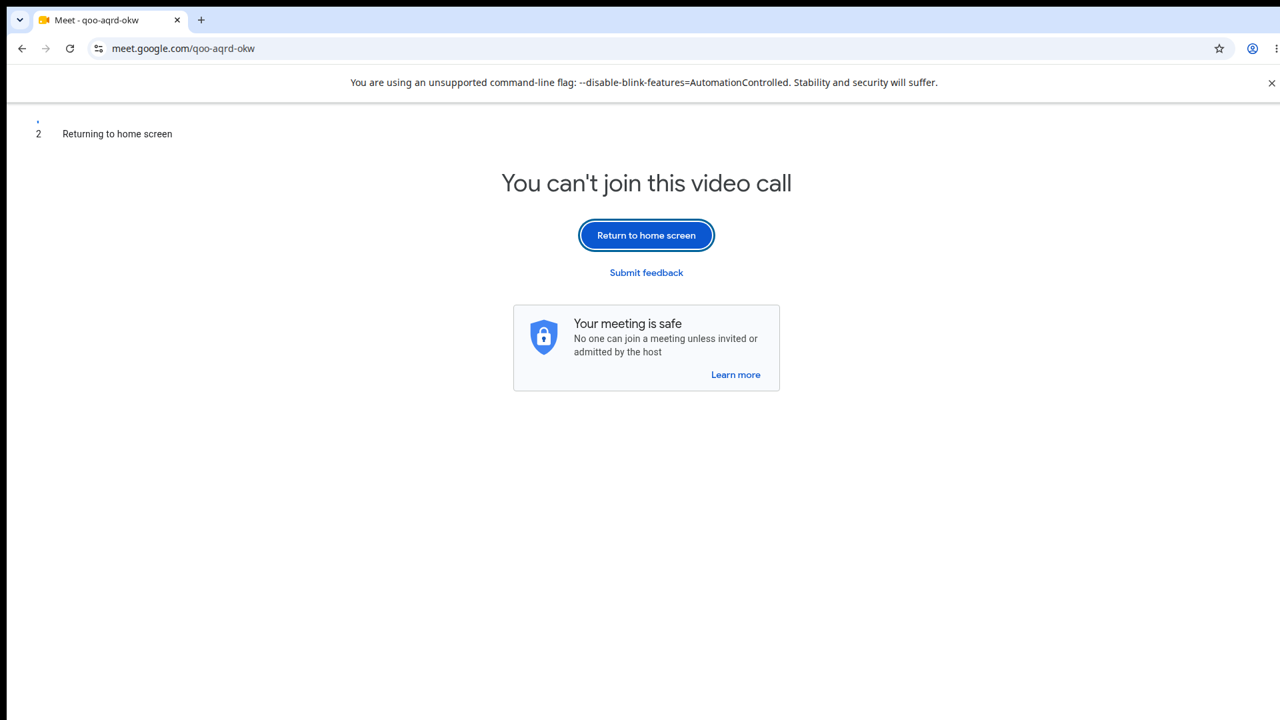
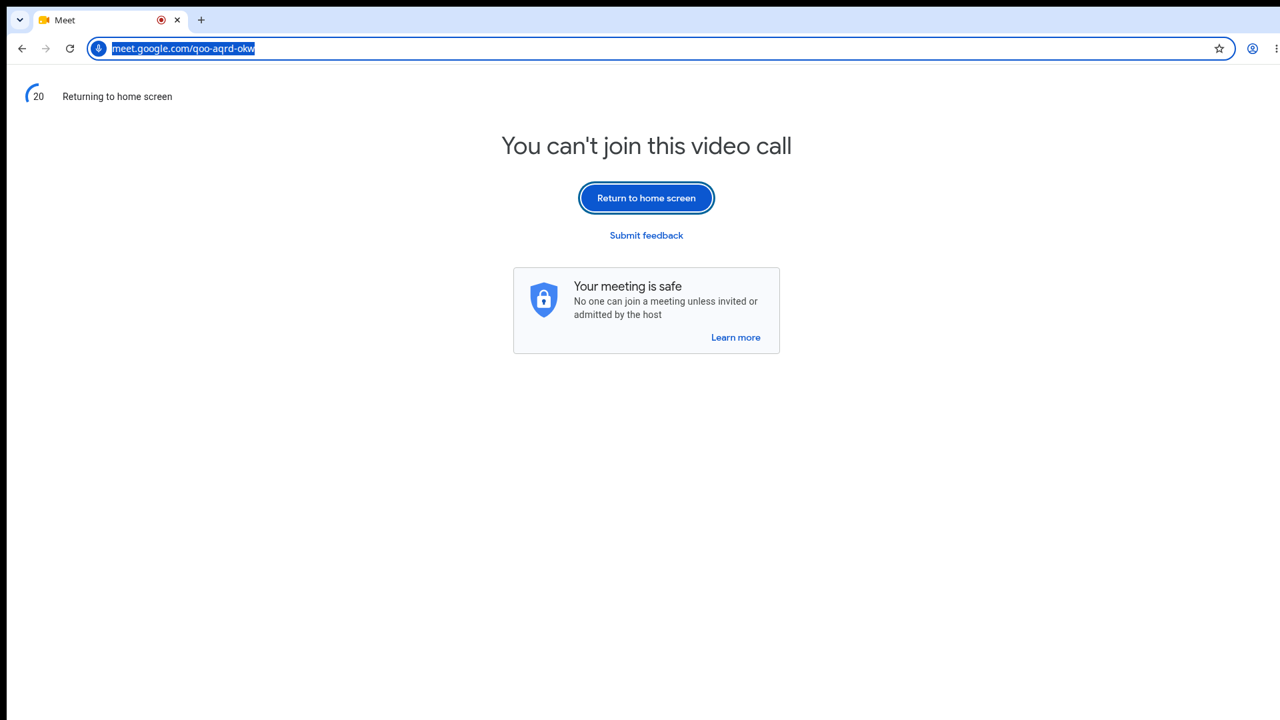
Fuzzy wake-name matching for STT mis-hearings; neural TTS via OpenRouter audio streaming

diff --git a/agent/vw_agent/speak.py b/agent/vw_agent/speak.py
@@ -1,21 +1,101 @@
-"""Text-to-speech output through the virtual mic bus (vw_tts -> vw_mic)."""
+"""Text-to-speech output through the virtual mic bus (vw_tts -> vw_mic).
+
+Engines, in order of preference:
+  openrouter : neural voice via OpenRouter (openai/gpt-audio-mini, streaming
+               pcm16 -> WAV -> paplay). High quality, uses OPENROUTER_API_KEY.
+  espeak-ng  : offline fallback.
+
+Config: VW_TTS_ENGINE=auto|openrouter|espeak, VW_TTS_MODEL, VW_TTS_VOICE.
+"""
+import base64
+import json
 import os
 import subprocess
 import tempfile
+import urllib.request
+import wave
 
 from .config import CONFIG
 
 
+def _tts_wav_openrouter(text, wav_path):
+    """Synthesize via OpenRouter streaming audio; write a WAV file."""
+    key = os.environ.get("OPENROUTER_API_KEY")
+    if not key:
+        raise RuntimeError("OPENROUTER_API_KEY not set")
+    body = json.dumps({
+        "model": CONFIG["tts_model"],
+        "modalities": ["text", "audio"],
+        "audio": {"voice": CONFIG["tts_voice"], "format": "pcm16"},
+        "stream": True,
+        "messages": [
+            {"role": "system", "content":
+                "You are Alex, a virtual worker. Read the user's text out "
+                "loud, verbatim, in a natural friendly spoken style. Do not "
+                "add anything."},
+            {"role": "user", "content": text},
+        ],
+    }).encode()
+    req = urllib.request.Request(
+        "https://openrouter.ai/api/v1/chat/completions",
+        data=body,
+        headers={"Authorization": "Bearer %s" % key,
+                 "Content-Type": "application/json"},
+    )
+    chunks = []
+    with urllib.request.urlopen(req, timeout=120) as resp:
+        for raw_line in resp:
+            line = raw_line.decode("utf-8", "replace").strip()
+            if not line.startswith("data:"):
+                continue
+            payload = line[5:].strip()
+            if payload == "[DONE]":
+                break
+            try:
+                msg = json.loads(payload)
+            except ValueError:
+                continue
+            if "error" in msg:
+                raise RuntimeError("openrouter tts error: %s"
+                                   % str(msg["error"])[:200])
+            delta = (msg.get("choices") or [{}])[0].get("delta", {})
+            audio = delta.get("audio") or {}
+            if audio.get("data"):
+                chunks.append(audio["data"])
+    if not chunks:
+        raise RuntimeError("openrouter tts returned no audio")
+    pcm = base64.b64decode("".join(chunks))
+    with wave.open(wav_path, "wb") as w:
+        w.setnchannels(1)
+        w.setsampwidth(2)
+        w.setframerate(CONFIG["tts_sample_rate"])
+        w.writeframes(pcm)
+
+
+def _tts_wav_espeak(text, wav_path):
+    subprocess.run(["espeak-ng", "-v", "en-us", "-s", "155", "-p", "40",
+                    "-w", wav_path, text], check=True,
+                   capture_output=True, timeout=60)
+
+
 def tts_play(text):
     """Speak `text` into the vw_tts sink (which feeds the virtual mic)."""
+    engine = CONFIG["tts_engine"]
     with tempfile.NamedTemporaryFile(suffix=".wav", delete=False) as f:
         wav = f.name
     try:
-        subprocess.run(["espeak-ng", "-v", "en-us", "-s", "155", "-p", "40",
-                        "-w", wav, text], check=True,
-                       capture_output=True, timeout=60)
+        error = None
+        if engine in ("auto", "openrouter"):
+            try:
+                _tts_wav_openrouter(text, wav)
+            except Exception as exc:
+                error = exc
+                if engine == "openrouter":
+                    raise
+        if error is not None or engine == "espeak":
+            _tts_wav_espeak(text, wav)
         subprocess.run(["paplay", "--device=%s" % CONFIG["tts_sink"], wav],
-                       check=True, capture_output=True, timeout=120)
+                       check=True, capture_output=True, timeout=180)
     finally:
         try:
             os.unlink(wav)

diff --git a/agent/vw_agent/agent.py b/agent/vw_agent/agent.py
@@ -294,7 +294,7 @@ class Worker:
         self._append_transcript(speaker=CONFIG["operator_name"], text=text)
         low = text.lower()
         wake = CONFIG["wake_name"].lower()
-        if wake in low:
+        if self._contains_wake(low):
             self._last_wake_ts = time.time()
             self._answer_question(text)
         elif "remind" in low or (time.time() - self._last_wake_ts < 12 and
@@ -303,6 +303,19 @@ class Worker:
             self._maybe_reminder(text)
             if wake in low:
                 self._last_wake_ts = time.time()
+
+    def _contains_wake(self, low):
+        """Exact substring or fuzzy token match, so STT mis-hearings of the
+        wake name ("a lex", "alice", "awlex", ...) still trigger."""
+        wake = CONFIG["wake_name"].lower()
+        if wake in low:
+            return True
+        import difflib
+        for word in low.replace(",", " ").split():
+            if abs(len(word) - len(wake)) <= 2 and \
+                    difflib.SequenceMatcher(None, word, wake).ratio() >= 0.72:
+                return True
+        return False
 
     def _append_transcript(self, speaker, text):
         try:

diff --git a/agent/vw_agent/config.py b/agent/vw_agent/config.py
@@ -36,6 +36,11 @@ CONFIG = {
     "stt_window_max": _float("VW_STT_WINDOW_MAX", 12.0),
     "stt_silence": _float("VW_STT_SILENCE", 0.8),
     "stt_model": os.environ.get("VW_STT_MODEL", "base.en"),
+    # voice
+    "tts_engine": os.environ.get("VW_TTS_ENGINE", "auto"),  # auto|openrouter|espeak
+    "tts_model": os.environ.get("VW_TTS_MODEL", "openai/gpt-audio-mini"),
+    "tts_voice": os.environ.get("VW_TTS_VOICE", "onyx"),
+    "tts_sample_rate": _int("VW_TTS_RATE", 24000),
     # meeting
     "google_email": os.environ.get("GOOGLE_EMAIL", ""),
     "google_password": os.environ.get("GOOGLE_PASSWORD", ""),
